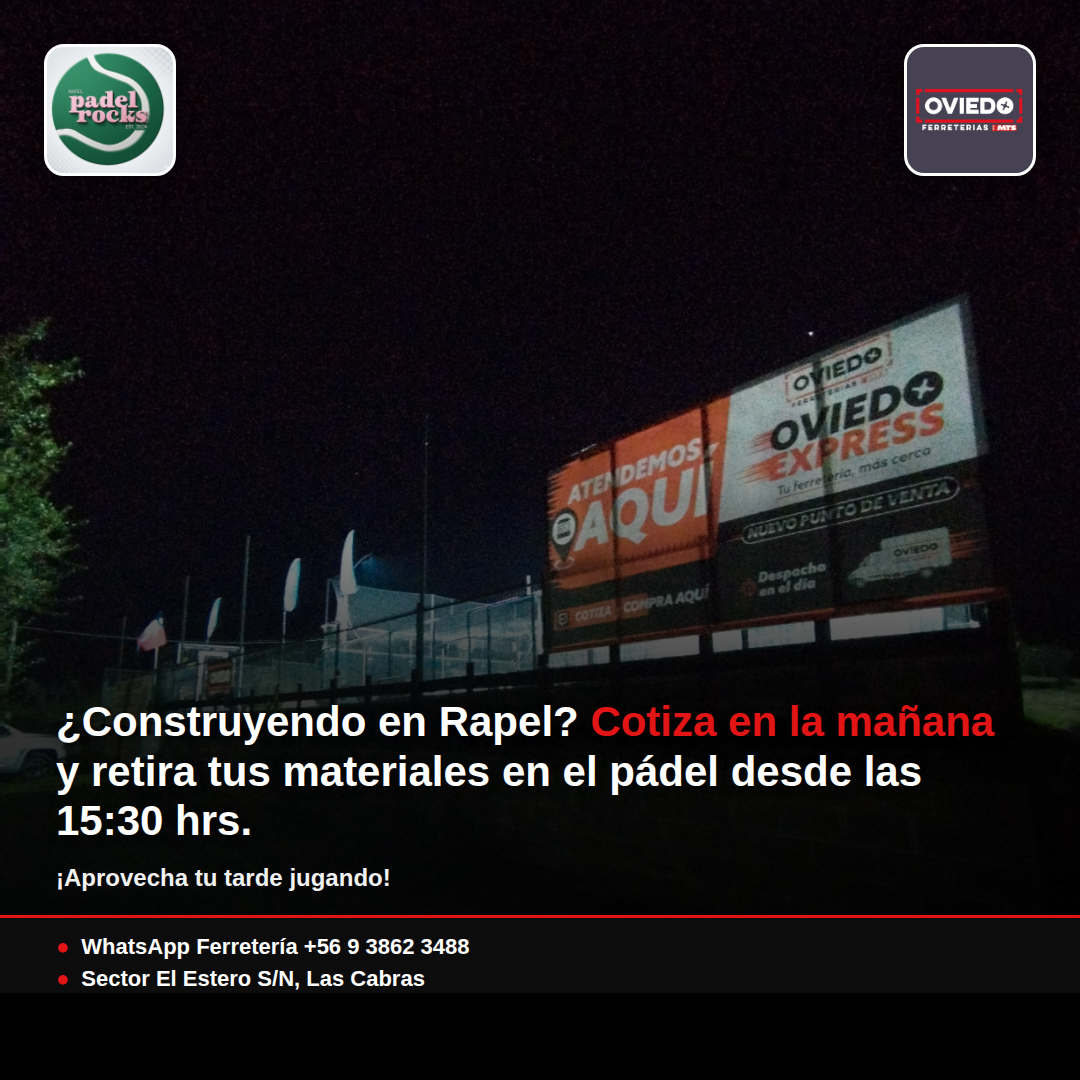
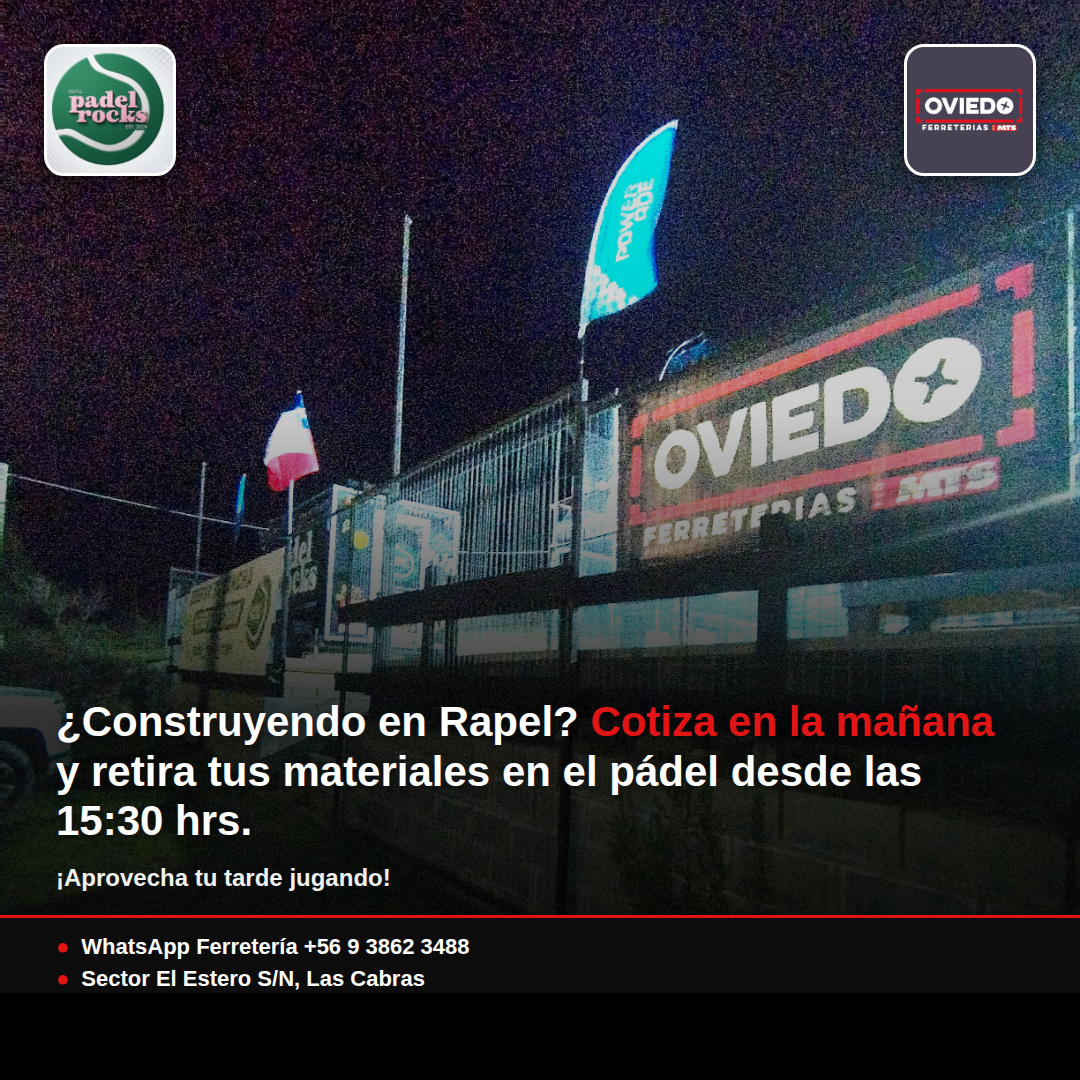
Cambiar fondo del borrador a foto con bandera chilena, realzada
Nueva versión de la tercera pieza (aún sin aprobar): fondo cartel
Oviedo Ferreterías + bandera chilena, con brillo/contraste/nitidez
aumentados (Pillow) sobre la foto real, sin alterar el contenido.

Claude-Session: https://claude.ai/code/session_01HB5zd7JaJ3WuSmyxSVNbDX

diff --git a/plantillas/flyer-logistica-1x1.html b/plantillas/flyer-logistica-1x1.html
@@ -12,7 +12,7 @@
   }
   .bg{
     position:absolute;inset:0;
-    background:url('../assets/fotos-sucursal/2026-09/cartel-oviedo-express-atendemos-aqui-02.jpg') center 30%/cover no-repeat;
+    background:url('../assets/fotos-sucursal/2026-09/cartel-oviedo-ferreterias-mts-01-realzada.jpg') center 22%/cover no-repeat;
   }
   .gradient{
     position:absolute;inset:0;
